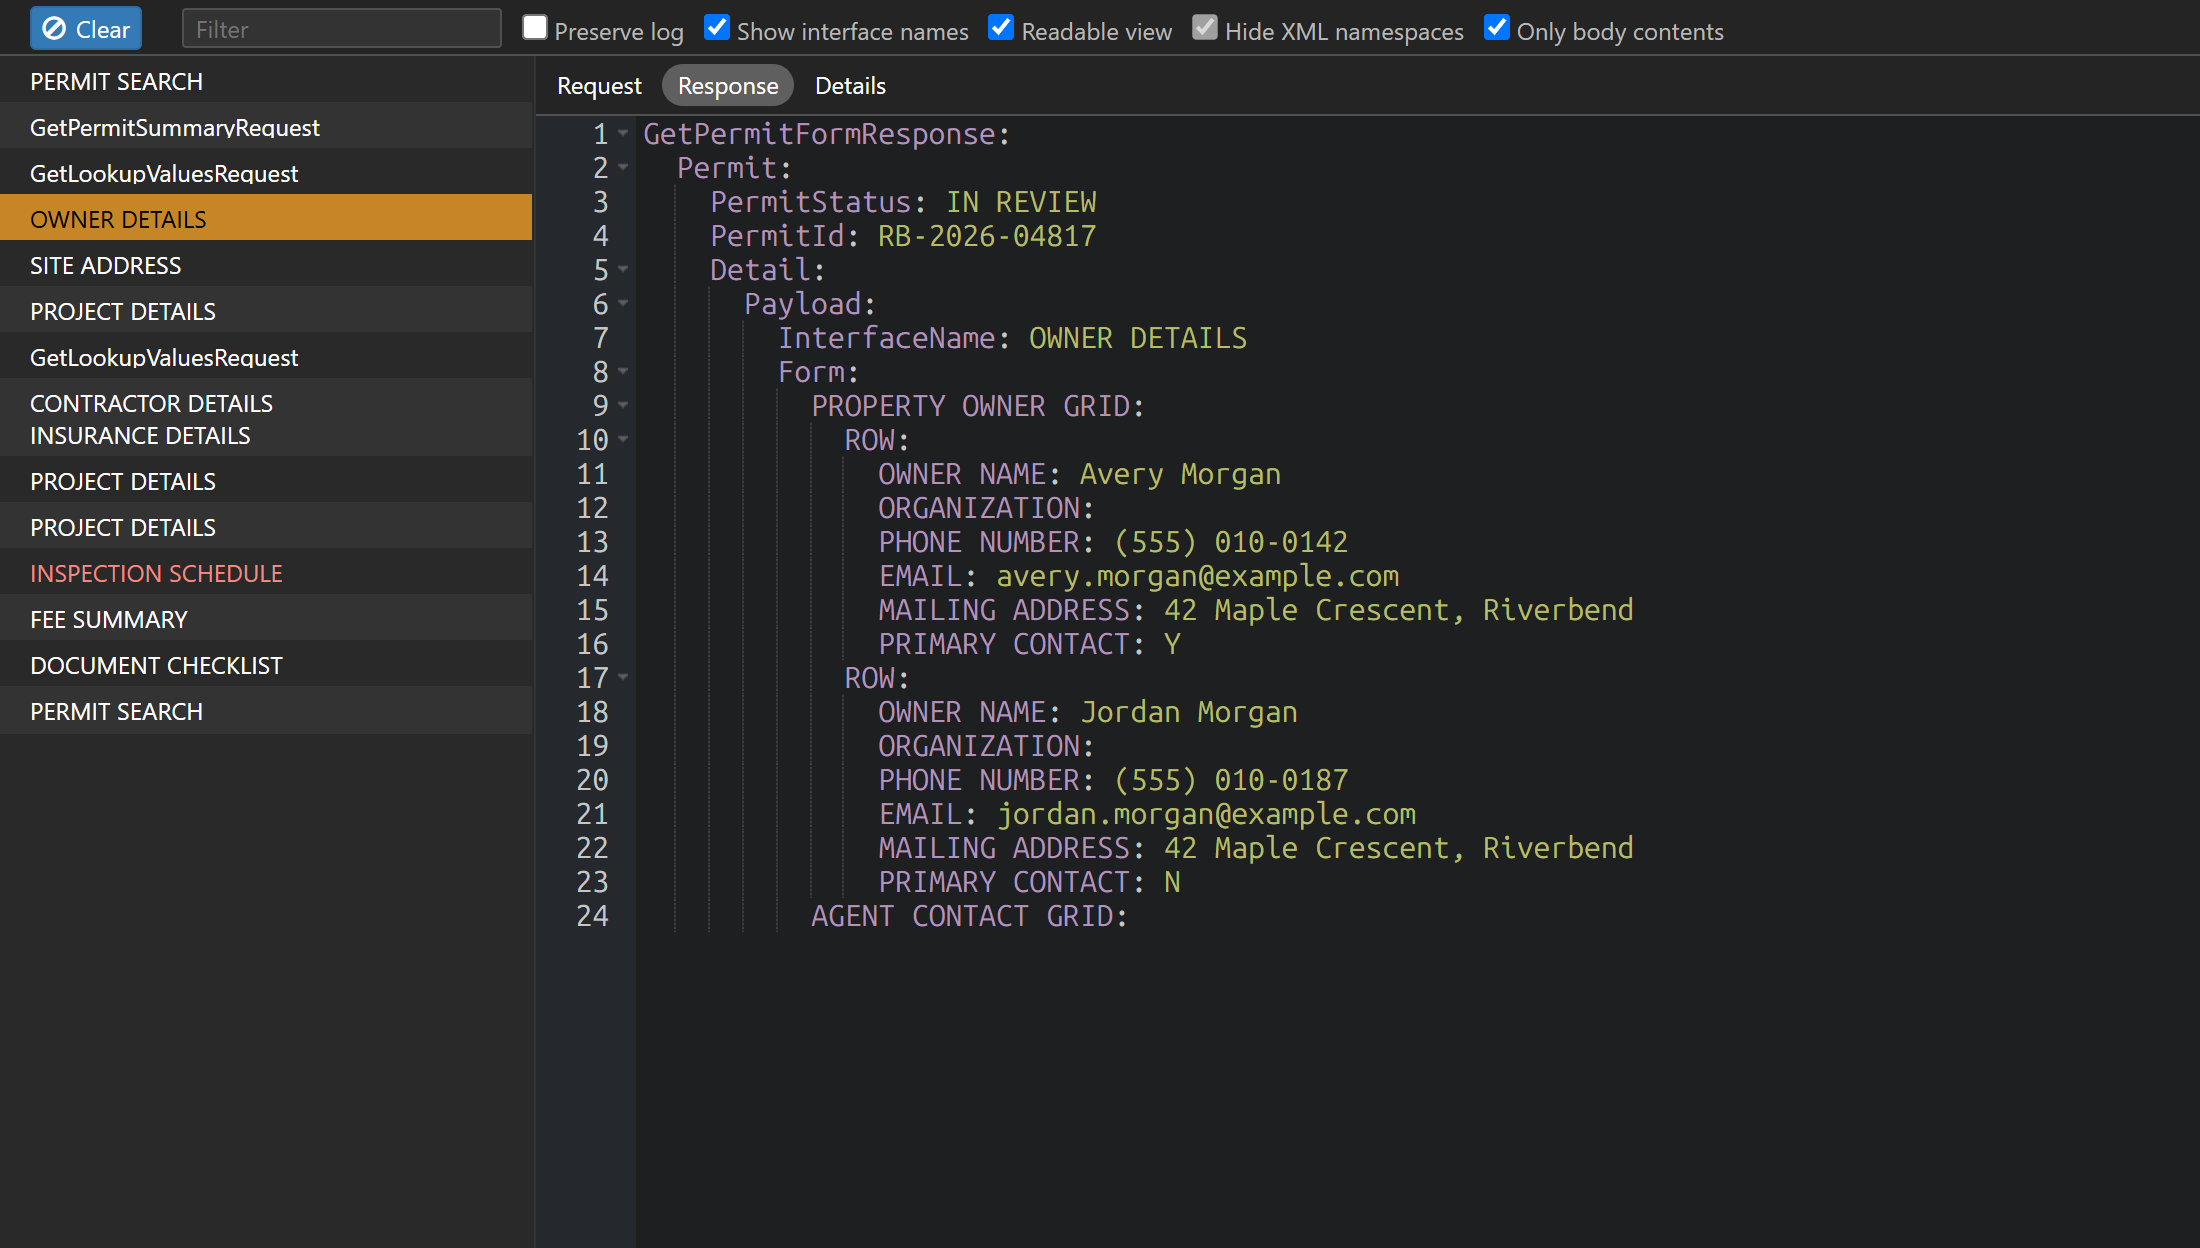
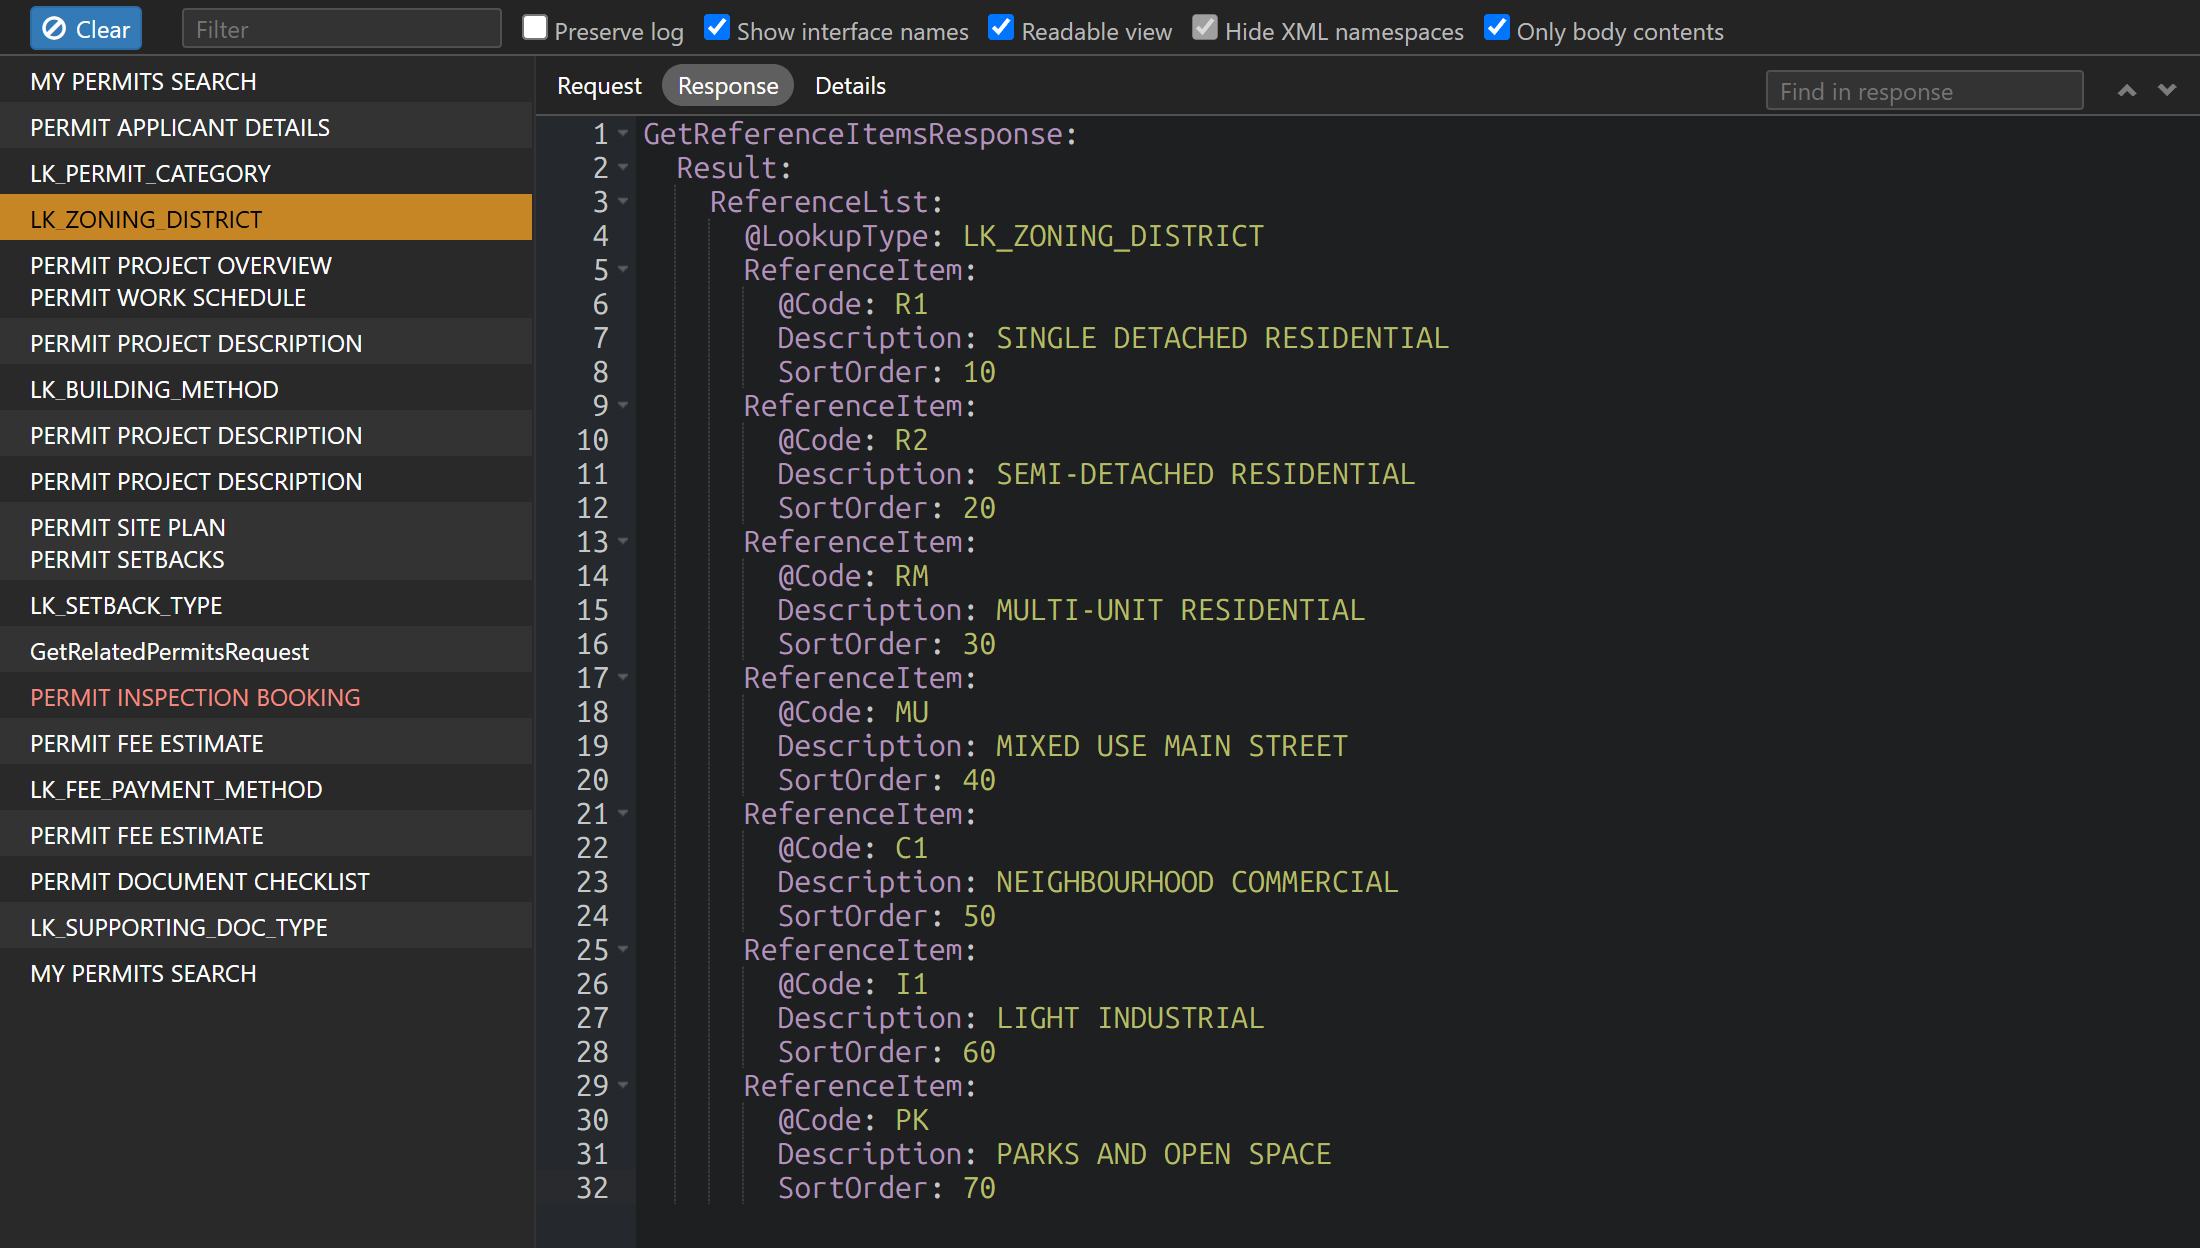
Update the README screenshots and fix outdated descriptions
The screenshots predated the find box and listing reference lookups by
their lookup type. New ones, from made-up building permit data, show the
XML view, the readable view with a find highlighting its matches, and
the interface-names list with lookup types in the dark theme.

Also corrects the README where it had fallen behind the code: the filter
matches the names the list shows, find ignores case, the readable view
also labels items by a Name next to a Value, and calls kept by Preserve
log still show their request and response.

diff --git a/README.md b/README.md
@@ -13,13 +13,13 @@ This is a fork of [DJ Collier](https://github.com/collier)'s original [soap-anal
 
 ## Changes in this fork
 
-- **Readable view:** shows requests and responses as indented `name: value` lines instead of XML, without namespaces. Form items are listed by their description (`ItemDescription`) and value, with nested item lists indented below them.
+- **Readable view:** shows requests and responses as indented `name: value` lines instead of XML, without namespaces. Form items are listed by their description (`ItemDescription`, or a `Name` next to a `Value`) and value, with nested item lists indented below them.
 - **Show interface names:** lists calls by the `InterfaceName` elements in their requests instead of by service name. `GetReferenceItemsRequest` calls are listed by their `LookupType` instead. Calls without either keep their service name.
-- **Filter box** to search the list by name.
-- **Find in requests and responses:** a find box next to the tabs highlights every match in the request and response text, and steps through them with Enter and Shift+Enter (or the arrow buttons). Each tab shows how many matches it has, and Ctrl+F (Cmd+F on a Mac) jumps to the box.
+- **Filter box** to search the list by the names it shows, including interface names and lookup types when those are shown.
+- **Find in requests and responses:** a find box next to the tabs highlights every match in the request and response text, ignoring case, and steps through them with Enter and Shift+Enter (or the arrow buttons). Each tab shows how many matches it has, and Ctrl+F (Cmd+F on a Mac) jumps to the box.
 - **Resizable list:** drag the divider between the list and the editor.
 - **Failed calls in red:** calls with an HTTP error, or no response, are highlighted in the list.
-- **Preserve log:** like the Network tab, the list clears when the page navigates unless 'Preserve log' is checked.
+- **Preserve log:** like the Network tab, the list clears when the page navigates unless 'Preserve log' is checked. Calls kept across a page load still show their request and response.
 - **Follows the DevTools theme:** switches between light and dark on its own, in place of the old dark theme setting.
 - **Manifest V3:** runs in current versions of Chrome and Edge, with an updated build (webpack 5, Babel, and plain CSS in place of Sass).
 - **Fixes:**
@@ -35,15 +35,15 @@ The screenshots use made-up sample data.
 
 A form response as XML, with namespaces hidden and only the body shown. Failed calls are red in the list.
 
-![A permit form response shown as XML](docs/screenshots/xml-view.png)
+![A building permit form response shown as XML](docs/screenshots/xml-view.png)
 
-The same response in the readable view.
+The same response in the readable view, with a find for "2027". Each tab shows how many matches it has, and the selected match is in orange.
 
-![The same permit form response shown as indented name: value lines](docs/screenshots/readable-view.png)
+![The same permit form response shown as indented name: value lines, with the matches for 2027 highlighted](docs/screenshots/readable-view.png)
 
-Calls listed by their interface names, in the DevTools dark theme. A call with two forms lists both.
+Calls listed by their interface names, and reference lookups by their lookup type, in the DevTools dark theme. A call with two forms lists both.
 
-![The service list showing interface names, with the panel in the dark theme](docs/screenshots/interface-names-dark.png)
+![The service list showing interface names and lookup types, with the panel in the dark theme](docs/screenshots/interface-names-dark.png)
 
 ## Installation and Development
 
